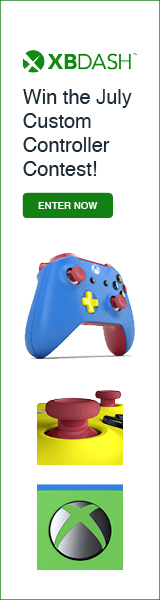
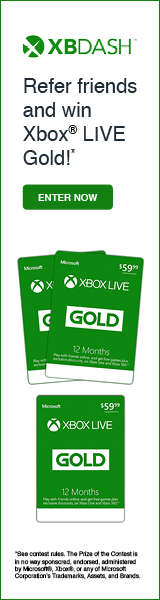
signup pop change

diff --git a/client/templates/news_page/news_single.html b/client/templates/news_page/news_single.html
@@ -17,10 +17,10 @@
 							</div>
 						</div>
 					</div>
-					<div class="wrapper-md visible-xl-block col-xl-2 hidden-lg hidden-md hidden-sm hidden-xs trending-column">
+					<!-- <div class="wrapper-md visible-xl-block col-xl-2 hidden-lg hidden-md hidden-sm hidden-xs trending-column">
 						<h2 class="m-b-sm font-thin h3 text-black">Trending</h2>
 						{{> mostSharedNews limit=7}}
-					</div>
+					</div> -->
 					<div class="wrapper-md col-xl-6 col-lg-7 col-md-8 col-sm-12 col-xs-12">
 						<div class="xbd-top-banner-ad">
 							<a href="/contests">
@@ -39,13 +39,7 @@
 						</div>
 					</div>
 					<div class="wrapper-md col-xl-3 col-lg-5 col-md-4 col-sm-12 col-xs-12">
-						<div class="xbd-right-banner-ad">
-							<a href="/contests">
-								<img src="/img/ads/xbdash-ads-300x600.jpg" class="right300600" />
-								<img src="/img/ads/xbdash-ads-160x600.jpg" class="right160600" />
-								<img src="/img/ads/xbdash-ads-300x250.jpg" class="right300250" />
-							</a>
-						</div>
+						{{> newsBannerArea}}
 					</div>
 					<div class="shareDiv">
 						{{> newsSinglePageShareButtons}}
@@ -83,5 +77,15 @@
 				</a>
 			</li>
 		</ul>
+	</div>
+</template>
+
+<template name="newsBannerArea">
+	<div class="xbd-right-banner-ad" id="banner-affix">
+		<a href="/contests">
+			<img src="/img/ads/xbdash-ads-300x600.jpg" class="right300600" />
+			<img src="/img/ads/xbdash-ads-160x600.jpg" class="right160600" />
+			<img src="/img/ads/xbdash-ads-300x250.jpg" class="right300250" />
+		</a>
 	</div>
 </template>

diff --git a/client/templates/news_page/news_single.js b/client/templates/news_page/news_single.js
@@ -30,12 +30,12 @@ Template.newsSinglePage.helpers({
 });
 
 Template.newsSinglePage.rendered = function() {
-	var user = Meteor.user();
-	if (!user) {
+	var userLogged = Meteor.loggingIn();
+	if (!user && !userLogged) {
 		setTimeout(function() {
 			sweetAlert({
-				title: 'Get Your Free Account',
-				html: 'Sign up and confirm your Gamertag to unlock your <em>personal</em> dashboard!',
+				title: 'Win a Year of Xbox® Live Gold!',
+				html: 'Enter the August Referral Contest!<br />Verified member with the <strong>most referrals</strong> by August 31, 2016 wins! See contest rules.',
 				customClass: 'sign-up-modal',
 				allowOutsideClick: false,
 				showCancelButton: true,
@@ -43,9 +43,9 @@ Template.newsSinglePage.rendered = function() {
 				cancelButtonText: 'Not Right Now',
 				confirmButtonColor: '#138013',
 				confirmButtonClass: 'btn-success',
-				width: 600
+				width: 480
 			}, function() {
-				Router.go('signUp');
+				Router.go('contestPage');
 			});
 		}, 120000);
 	}
@@ -150,3 +150,11 @@ Template.newsSinglePageShareButtons.helpers({
 		return getImage;
 	}
 });
+
+Template.newsBannerArea.rendered = function() {
+	$('#banner-affix').affix({
+		offset: {
+			top: 110
+		}
+	});
+}

diff --git a/client/stylesheets/welcome_overlay.css b/client/stylesheets/welcome_overlay.css
@@ -1,39 +1,47 @@
 .sweet-alert h2 {
-  line-height: 72px;
+	line-height: 54px;
+}
+.sweet-alert p {
+	font-size: 16px;
+	line-height: inherit;
 }
 .sweet-alert hr {
-  margin: 5px 0;
+	margin: 5px 0;
 }
 .sweet-alert.welcome-overlay hr {
-  height: 0;
-  color: transparent;
-  border: 0;
-  margin: 0;
+	height: 0;
+	color: transparent;
+	border: 0;
+	margin: 0;
 }
 .sweet-alert button.styled {
-  margin: 10px 5px;
+	margin: 10px 5px;
 }
 .sweet-icon.sweet-error .line {
-  top: 30px;
+	top: 30px;
 }
 .sweet-alert.welcome-overlay .panel {
-  margin-bottom: 10px;
+	margin-bottom: 10px;
 }
 
 @media screen and (max-width: 1000px) {
-  .sweet-alert {
-    max-width: 100%;
-    left: 0 !important;
-    margin-left: 0 !important;
-    top: 38%;
-  }
+	.sweet-alert {
+		max-width: 100%;
+		left: 50%;
+		top: 38%;
+	}
 }
 
 @media screen and (max-width: 767px) {
-  .sweet-alert {
-    top: 30%;
-  }
-  .sweet-content {
-    padding: 20px 40px;
-  }
+	.sweet-alert {
+		left: 0%;
+		top: 30%;
+	}
+	.sweet-alert h2 {
+		line-height: 36px;
+		font-size: 24px;
+	}
+	.sweet-content {
+		padding: 20px;
+	}
 }

diff --git a/client/templates/auth/confirmgt_page/confirmgt.js b/client/templates/auth/confirmgt_page/confirmgt.js
@@ -122,14 +122,14 @@ Template.confirmGtForm.events({
 							if (result) {
 								Router.go('home');
 								sweetAlert({
-									title: 'Staying Engaged on XBdash',
-									html: Blaze.toHTML(Template.welcomeOverlay),
+									title: 'Gamertag Scan in Progress',
+									text: 'When scanning is complete, your Dashboard page will populate and you will receive an email with a summary of your initial scanned data.',
 									customClass: 'welcome-overlay',
 									allowOutsideClick: false,
 									allowEscapeKey: false,
 									confirmButtonText: 'Let\'s Go!',
 									confirmButtonColor: '#138013',
-									width: 1000
+									width: 600
 								});
 							}
 						});

diff --git a/client/templates/app/welcome_overlay.html b/client/templates/app/welcome_overlay.html
@@ -1,4 +1,4 @@
-<template name="welcomeOverlay">
+<!-- <template name="welcomeOverlay">
 	<div class="row">
 		<div class="col-sm-4">
 			<div class="panel b-a">
@@ -40,4 +40,4 @@
 			</div>
 		</div>
 	</div>
-</template>
+</template> -->
